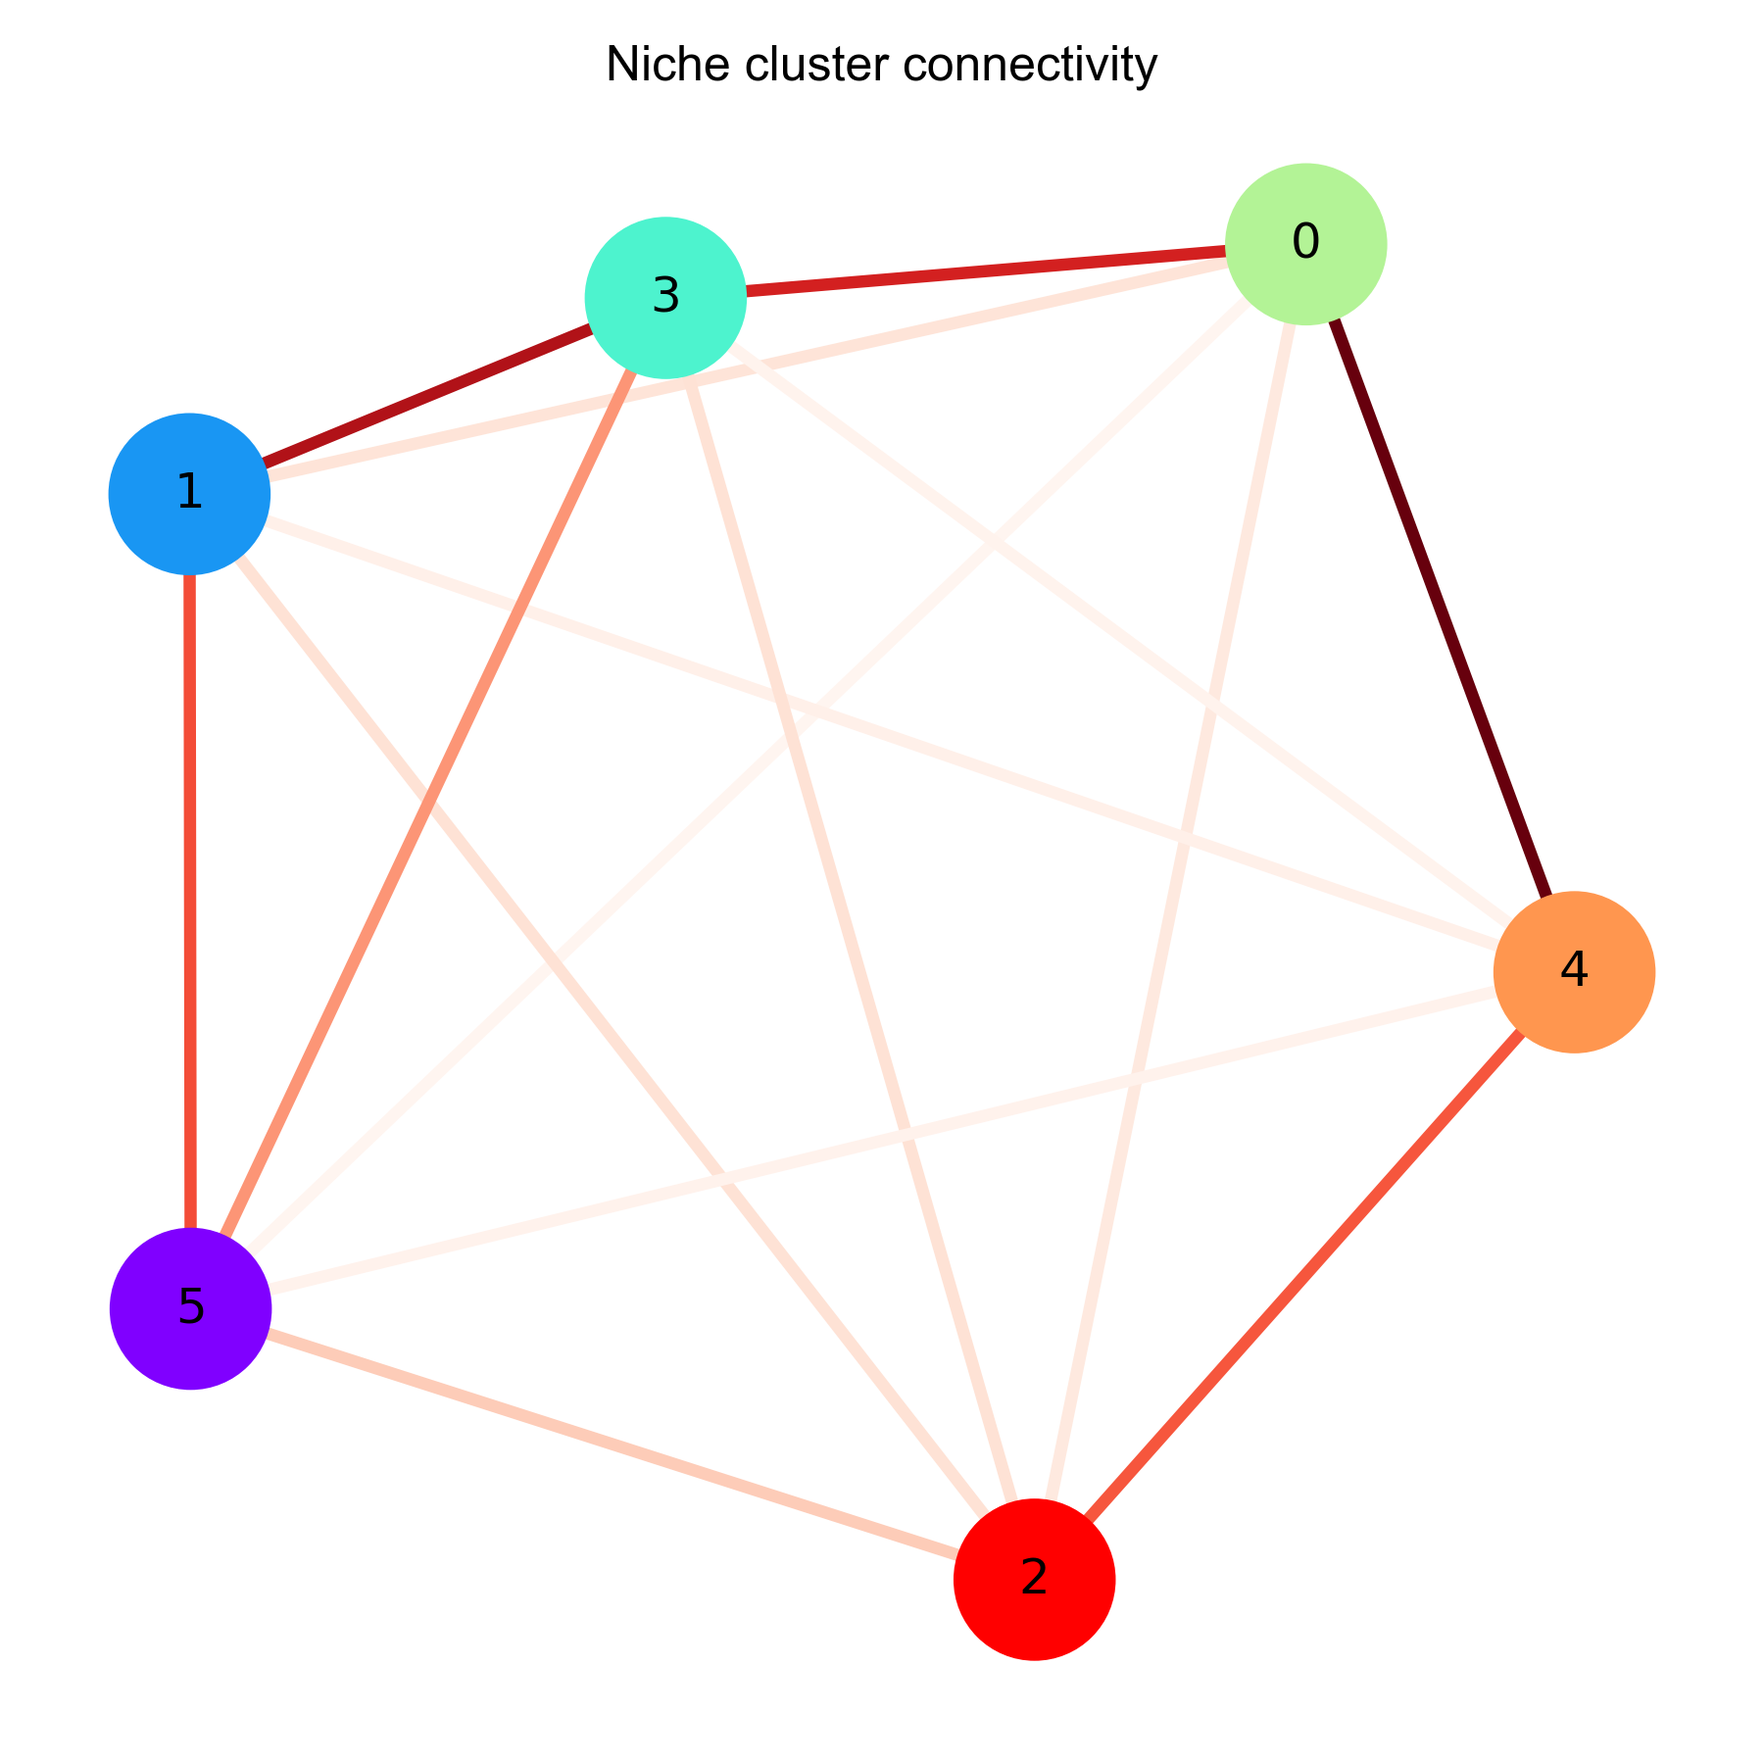
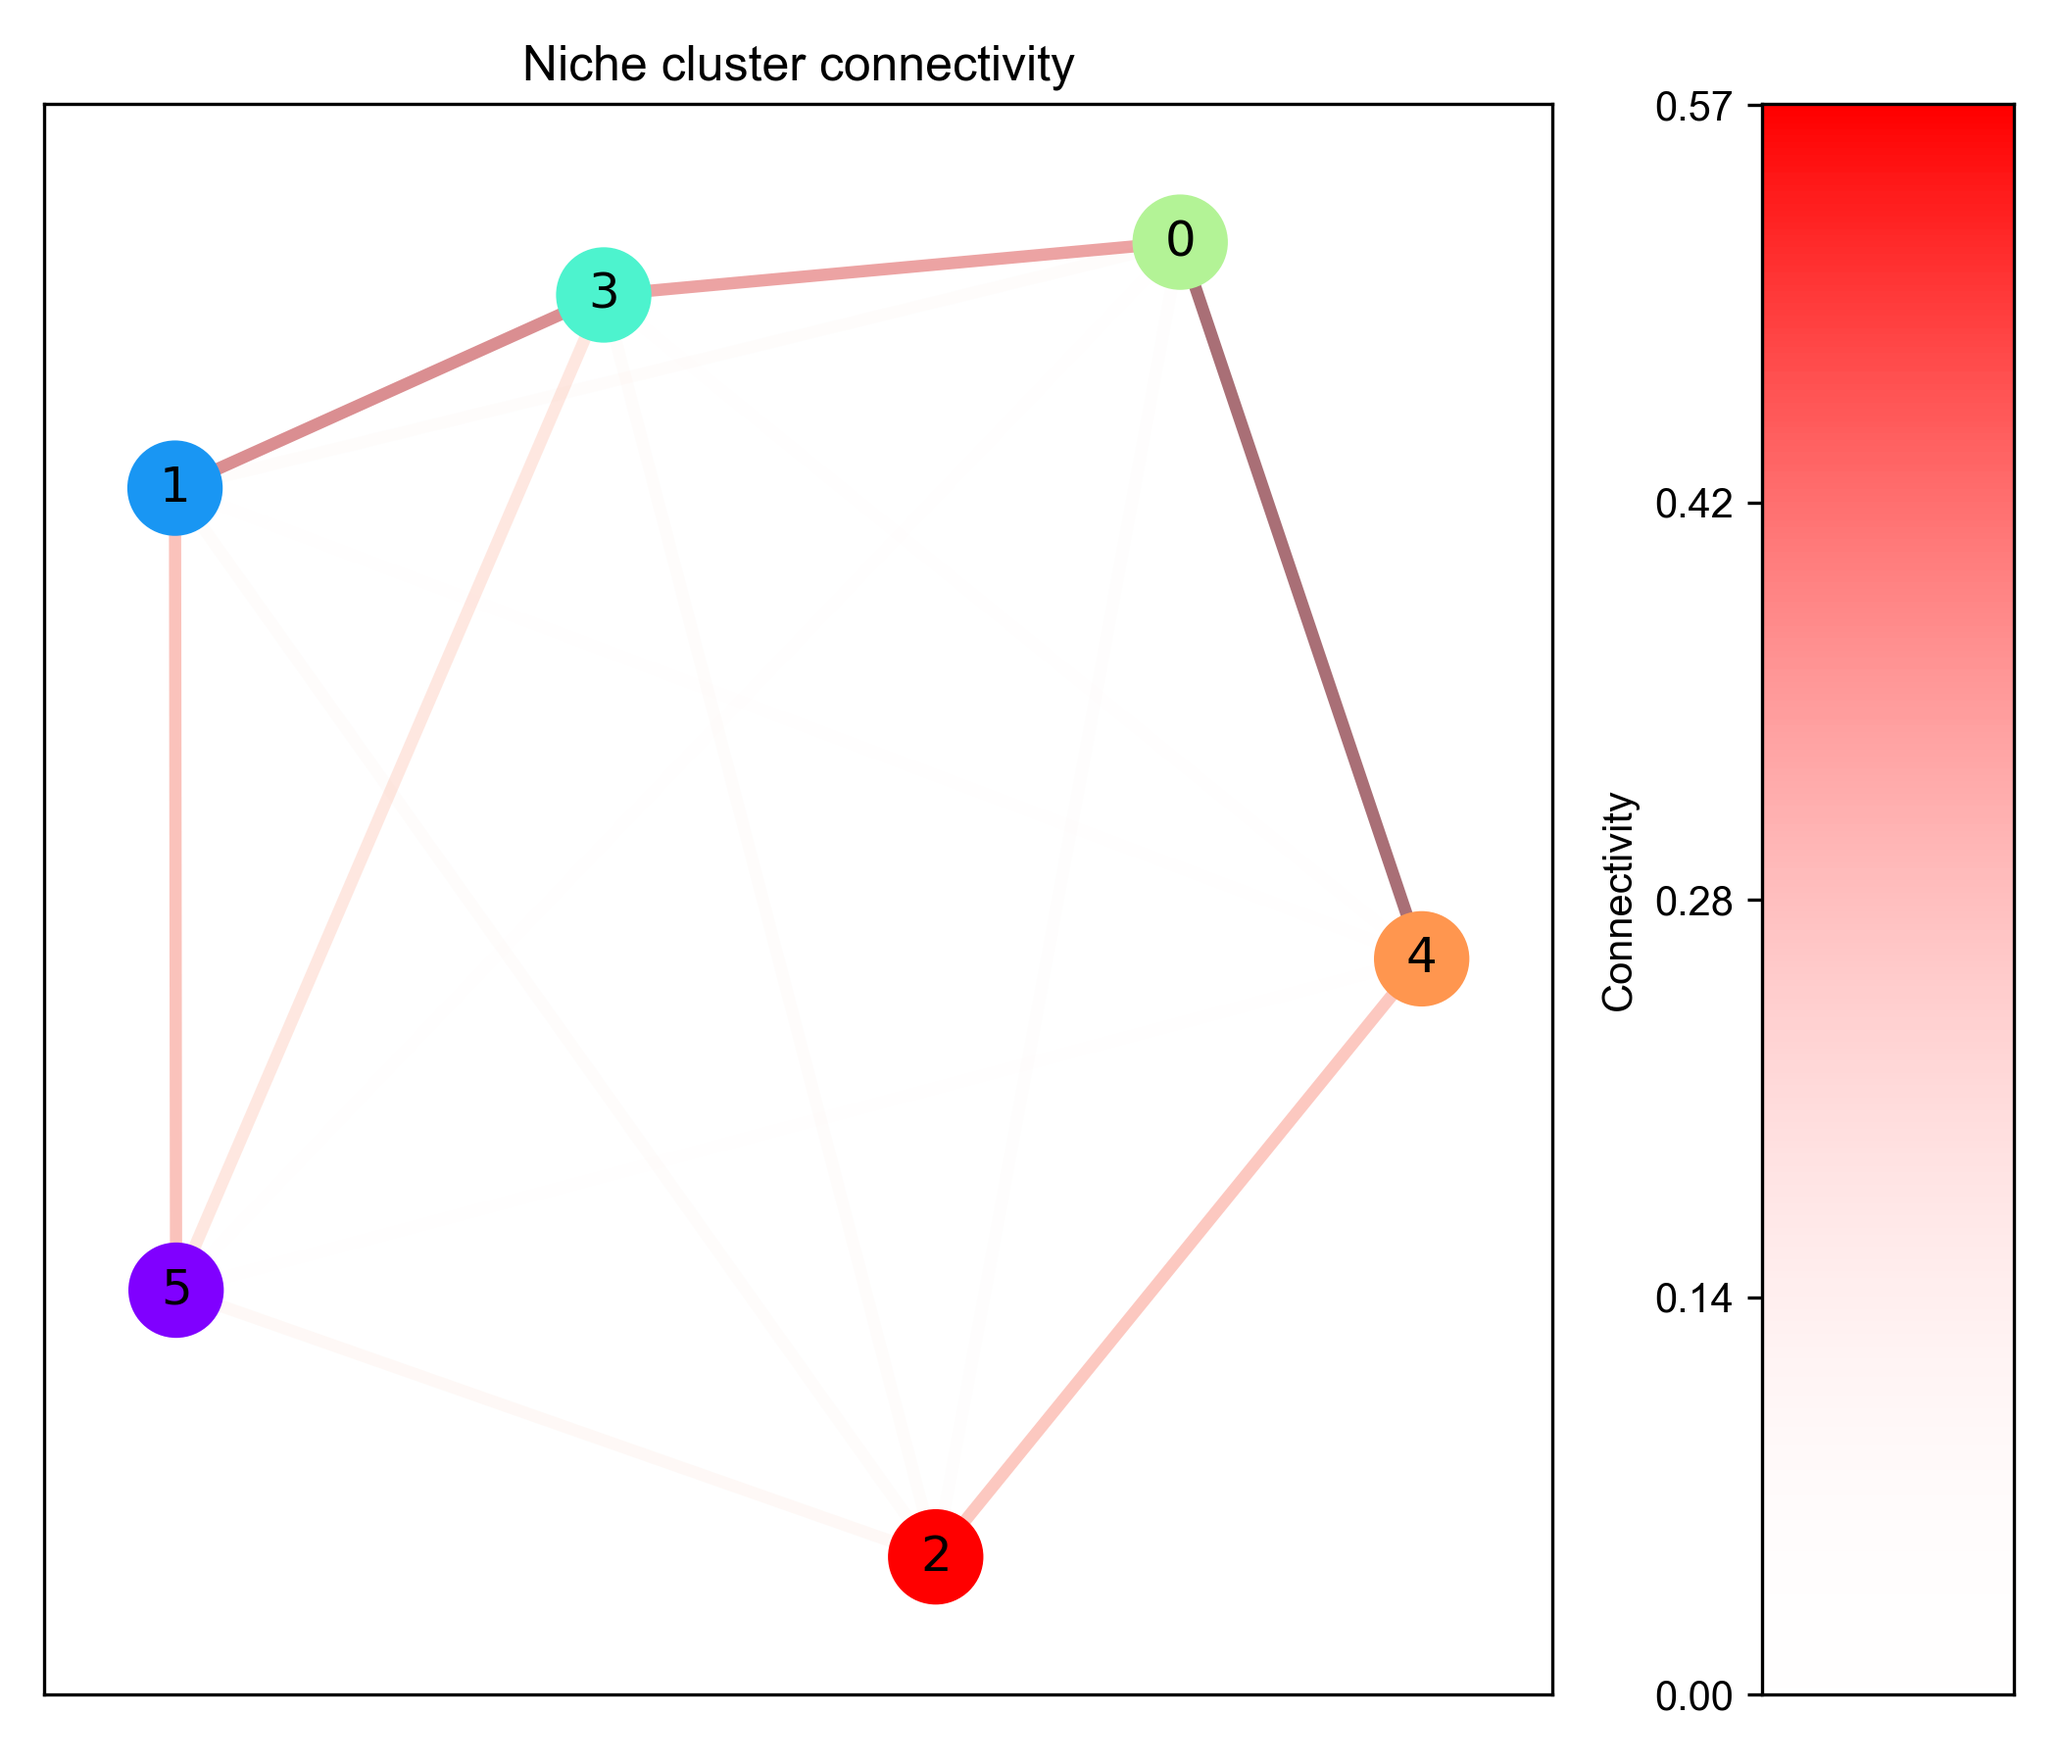
Update: niche cluster connectivity

diff --git a/tutorials/niche_cluster.md b/tutorials/niche_cluster.md
@@ -138,8 +138,11 @@ fig.savefig('figures/Spatial_max_niche_cluster.png', dpi=300)
 
 ```{python}
 import networkx as nx
+import matplotlib.gridspec as gridspec
+
 from matplotlib.cm import ScalarMappable
-from matplotlib.colors import Normalize
+from matplotlib.colors import LinearSegmentedColormap, Normalize
+
 
 G = nx.Graph(ana_data.niche_cluster_connectivity)
 
@@ -154,20 +157,39 @@ sm = ScalarMappable(cmap=plt.cm.rainbow, norm=norm)  # type: ignore
 nc_scores = 1 - ana_data.niche_cluster_score if ana_data.options.reverse else ana_data.niche_cluster_score
 niche_cluster_colors = [sm.to_rgba(nc_scores[n]) for n in G.nodes]
 
-fig, ax = plt.subplots(figsize=(6, 6))
-nx.draw(
+# Create a figure
+fig = plt.figure(figsize=(7, 6))
+
+# Create a gridspec with 1 row and 2 columns, with widths of A and B
+gs = gridspec.GridSpec(1, 2, width_ratios=[6, 1])  # 6:1 ratio
+ax1 = fig.add_subplot(gs[0])
+ax2 = fig.add_subplot(gs[1])
+
+# Draw the graph
+nx.draw_networkx_nodes(G, pos, node_color=niche_cluster_colors, node_size=500, ax=ax1)
+nx.draw_networkx_edges(
     G,
     pos,
-    with_labels=True,
-    node_color=niche_cluster_colors,  # Comment this line if you don't want colors corresponding to NT score
-    node_size=1500,
     edge_color=weights,
+    alpha=weights,
     width=3.0,
     edge_cmap=plt.cm.Reds,  # type: ignore
-    connectionstyle='arc3,rad=0.1',
-    ax=ax)
-ax.set_title('Niche cluster connectivity')
+    ax=ax1)
+nx.draw_networkx_labels(G, pos, ax=ax1)
+ax1.set_title('Niche cluster connectivity')
+
+# Draw the colorbar
+colors = [(1, 1, 1, 0), (1, 0, 0, 1)]
+custom_cmap = LinearSegmentedColormap.from_list('custom_cmap', colors)
+gradient = np.linspace(1, 0, 1000).reshape(-1, 1)
+ax2.imshow(gradient, aspect='auto', cmap=custom_cmap)
+ax2.set_xticks([])
+ax2.set_yticks(np.linspace(1000, 0, 5))
+ax2.set_yticklabels(f'{x:.2f}' for x in np.linspace(0, ana_data.niche_cluster_connectivity.max(), 5))
+ax2.set_ylabel('Connectivity')
+
 fig.tight_layout()
+
 fig.savefig('figures/Niche_cluster_connectivity.png', dpi=300)
 ```
 

diff --git a/tutorials/post_analysis.md b/tutorials/post_analysis.md
@@ -200,8 +200,11 @@ fig.savefig('figures/Spatial_max_niche_cluster.png', dpi=300)
 
 ```{python}
 import networkx as nx
+import matplotlib.gridspec as gridspec
+
 from matplotlib.cm import ScalarMappable
-from matplotlib.colors import Normalize
+from matplotlib.colors import LinearSegmentedColormap, Normalize
+
 
 G = nx.Graph(ana_data.niche_cluster_connectivity)
 
@@ -216,20 +219,39 @@ sm = ScalarMappable(cmap=plt.cm.rainbow, norm=norm)  # type: ignore
 nc_scores = 1 - ana_data.niche_cluster_score if ana_data.options.reverse else ana_data.niche_cluster_score
 niche_cluster_colors = [sm.to_rgba(nc_scores[n]) for n in G.nodes]
 
-fig, ax = plt.subplots(figsize=(6, 6))
-nx.draw(
+# Create a figure
+fig = plt.figure(figsize=(7, 6))
+
+# Create a gridspec with 1 row and 2 columns, with widths of A and B
+gs = gridspec.GridSpec(1, 2, width_ratios=[6, 1])  # 6:1 ratio
+ax1 = fig.add_subplot(gs[0])
+ax2 = fig.add_subplot(gs[1])
+
+# Draw the graph
+nx.draw_networkx_nodes(G, pos, node_color=niche_cluster_colors, node_size=500, ax=ax1)
+nx.draw_networkx_edges(
     G,
     pos,
-    with_labels=True,
-    node_color=niche_cluster_colors,  # Comment this line if you don't want colors corresponding to NT score
-    node_size=1500,
     edge_color=weights,
+    alpha=weights,
     width=3.0,
     edge_cmap=plt.cm.Reds,  # type: ignore
-    connectionstyle='arc3,rad=0.1',
-    ax=ax)
-ax.set_title('Niche cluster connectivity')
+    ax=ax1)
+nx.draw_networkx_labels(G, pos, ax=ax1)
+ax1.set_title('Niche cluster connectivity')
+
+# Draw the colorbar
+colors = [(1, 1, 1, 0), (1, 0, 0, 1)]
+custom_cmap = LinearSegmentedColormap.from_list('custom_cmap', colors)
+gradient = np.linspace(1, 0, 1000).reshape(-1, 1)
+ax2.imshow(gradient, aspect='auto', cmap=custom_cmap)
+ax2.set_xticks([])
+ax2.set_yticks(np.linspace(1000, 0, 5))
+ax2.set_yticklabels(f'{x:.2f}' for x in np.linspace(0, ana_data.niche_cluster_connectivity.max(), 5))
+ax2.set_ylabel('Connectivity')
+
 fig.tight_layout()
+
 fig.savefig('figures/Niche_cluster_connectivity.png', dpi=300)
 ```
 
